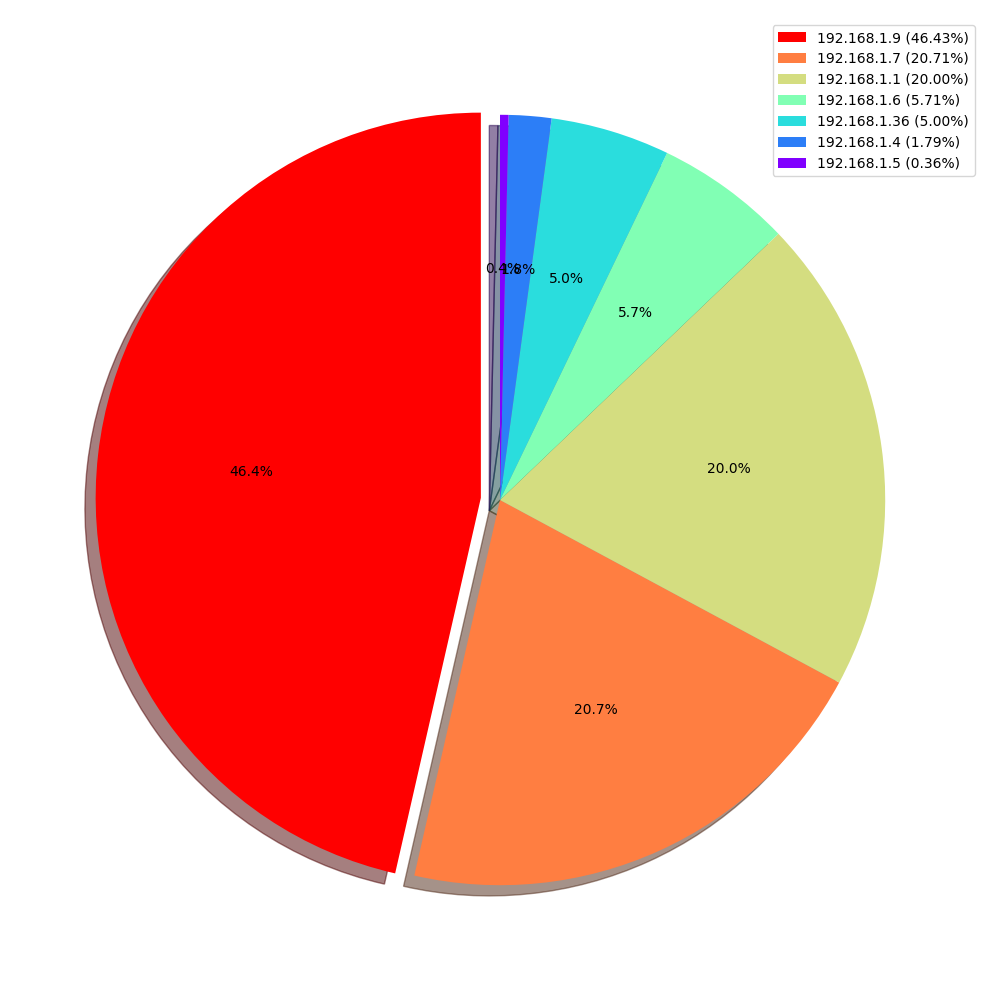
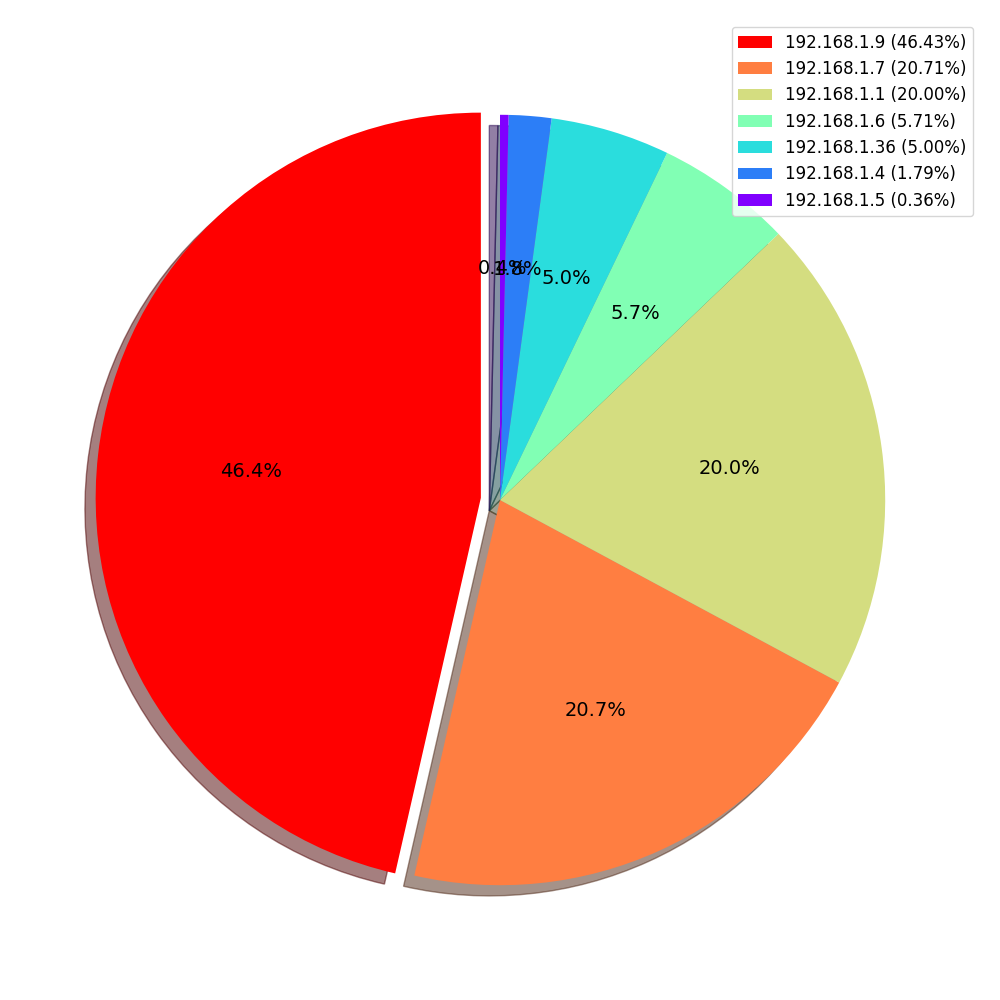
Agrega tabla de entropias y restructura las imagenes en el informe

diff --git a/tp1/informe/resultados.tex b/tp1/informe/resultados.tex
@@ -47,17 +47,31 @@ En cada experimentación se generaron tres tipos de resultados/graficos.
 
  Lo siguiente corresponde a la experimentacion realizada para la fuente Unicast-Multicast en una red WiFi domestica.
  
-\hspace*{-1.5cm}
- \includegraphics[scale=0.6]{../plots/mauro_s1_informacion.png}
- \includegraphics[scale=0.4]{../plots/mauro_s1_probabilidades.png}
+\begin{figure}
+	\begin{minipage}[b]{0.9\linewidth}
+		\subfloat[Probabilidades de los simbolos de la fuente $S_1$ para la red de hogareña]{
+		 \includegraphics[width=0.45\linewidth]{../plots/mauro_s1_probabilidades.png}
+		}
+		\subfloat[Información de los simbolos de la fuente $S_1$ para la red de hogareña]{
+		 \includegraphics[width=0.55\linewidth]{../plots/mauro_s1_informacion.png}
+		}
+	\end{minipage}
+\end{figure}
 
  Como podemos ver los resultados obtenidos muestran una alta concentración de paquetes \textit{multicast} por sobre los \textit{unicast}. En concecuencia la entropía cae abruptamente, ya que como explicamos ésta se maximiza cuando la distribución de las probabilidades de cada símbolo es equitativa, y baja a medida que nos alejamos de ello. Nuestra primera impresion era que los paquetes \textit{unicast} iban a predominar en la captura, sin embargo esto no sucedió. Es posible que esto se deba a que la placa de red del dispositivo en el cual se tomó la muestra no hayan entrado en modo promiscuo, en consecuencia el \textit{sniffer} solo llego a capturar los paquetes cuyo destino era dicho dispositivo (y no todos los \textit{unicast} transmitidos en la red). Por el contrario los \textit{multicast} enviados por cualquier dispositivo de la red se pudieron seguir escuchando sin ningun tipo de censura.
  
 \subsubsection{Fuente ARP}
 
-\hspace*{-1.5cm}
- \includegraphics[scale=0.6]{../plots/mauro_s2_informacion.png}
- \includegraphics[scale=0.4]{../plots/mauro_s2_probabilidades.png}
+\begin{figure}
+	\begin{minipage}[b]{0.9\linewidth}
+		\subfloat[Probabilidades de los simbolos de la fuente $S_2$ para la red de hogareña]{
+		 \includegraphics[width=0.45\linewidth]{../plots/mauro_s2_probabilidades.png}
+		}
+		\subfloat[Información de los simbolos de la fuente $S_2$ para la red de hogareña]{
+		 \includegraphics[width=0.55\linewidth]{../plots/mauro_s2_informacion.png}
+		}
+	\end{minipage}
+\end{figure}
 
 \subsubsection{Topolog\'ia de la Red}
 \begin{center}
@@ -76,15 +90,14 @@ alteradas por posibles `outliers`.
 \subsubsection{Fuente Unicast-Multicast}
 
 \begin{figure}
-\centering
- \includegraphics[scale=0.4]{../plots/trabajo_s1_probabilidades.png}
- \caption{Probabilidades de los simbolos de la fuente $S_1$ para la red de oficinas}
-\end{figure}
-
-\begin{figure}
- \centering
- \includegraphics[scale=0.6]{../plots/trabajo_s1_informacion.png}
- \caption{Información de los simbolos de la fuente $S_1$ para la red de oficinas}
+	\begin{minipage}[b]{0.9\linewidth}
+		\subfloat[Probabilidades de los simbolos de la fuente $S_1$ para la red de oficinas]{
+		 \includegraphics[width=0.45\linewidth]{../plots/trabajo_s1_probabilidades.png}
+		}
+		\subfloat[Información de los simbolos de la fuente $S_1$ para la red de oficinas]{
+		 \includegraphics[width=0.55\linewidth]{../plots/trabajo_s1_informacion.png}
+		}
+	\end{minipage}
 \end{figure}
 
 
@@ -101,18 +114,17 @@ una pequeña proporcion del trafico total de la red.
 \subsubsection{Fuente ARP}
 
 \begin{figure}
-\centering
- \includegraphics[scale=0.4]{../plots/trabajo_s2_probabilidades.png}
- \caption{Probabilidades de los simbolos de la fuente $S_2$ para la red de oficinas}
+	\begin{minipage}[b]{0.9\linewidth}
+		\subfloat[Probabilidades de los simbolos de la fuente $S_2$ para la red de oficinas]{
+		 \includegraphics[width=0.45\linewidth]{../plots/trabajo_s2_probabilidades.png}
+		}
+		\subfloat[Información de los simbolos de la fuente $S_2$ para la red de oficinas]{
+		 \includegraphics[width=0.55\linewidth]{../plots/trabajo_s2_informacion.png}
+		}
+	\end{minipage}
 \end{figure}
 
-\begin{figure}
- \centering
- \includegraphics[scale=0.6]{../plots/trabajo_s2_informacion.png}
- \caption{Información de los simbolos de la fuente $S_2$ para la red de oficinas}
-\end{figure}
-
-En estos graficos se puede ver que efectivamente que el nodo \textbf{192.168.0.1}
+En estos graficos se puede ver que efectivamente el nodo \textbf{192.168.0.1}
 es el destacado. Por previo conocimiento de la red se sabe que este
 es el router lo cual refuerza nuestra hipotesis sobre los nodos destacados.
 Tambien se observa que la entropía alcanzada es de $2.87$ cuando la máxima
@@ -138,15 +150,29 @@ se dijo puede deberse a switchs que no aprendieron bien la tabla de forwardeo.
 
 \subsubsection{Fuente Unicast-Multicast}
 
-\hspace*{-1.5cm}
- \includegraphics[scale=0.6]{../plots/labos_s1_informacion.png}
- \includegraphics[scale=0.4]{../plots/labos_s1_probabilidades.png}
+\begin{figure}
+	\begin{minipage}[b]{0.9\linewidth}
+		\subfloat[Probabilidades de los simbolos de la fuente $S_1$ para la red de laboratorios]{
+		 \includegraphics[width=0.45\linewidth]{../plots/labos_s1_probabilidades.png}
+		}
+		\subfloat[Información de los simbolos de la fuente $S_1$ para la red de laboratorios]{
+		 \includegraphics[width=0.55\linewidth]{../plots/labos_s1_informacion.png}
+		}
+	\end{minipage}
+\end{figure}
 
 \subsubsection{Fuente ARP}
 
-\hspace*{-1.5cm}
- \includegraphics[scale=0.6]{../plots/labos_s2_informacion.png}
- \includegraphics[scale=0.4]{../plots/labos_s2_probabilidades.png}
+\begin{figure}
+	\begin{minipage}[b]{0.9\linewidth}
+		\subfloat[Probabilidades de los simbolos de la fuente $S_2$ para la red de laboratorios]{
+		 \includegraphics[width=0.45\linewidth]{../plots/labos_s2_probabilidades.png}
+		}
+		\subfloat[Información de los simbolos de la fuente $S_2$ para la red de laboratorios]{
+		 \includegraphics[width=0.55\linewidth]{../plots/labos_s2_informacion.png}
+		}
+	\end{minipage}
+\end{figure}
 
 \subsubsection{Topolog\'ia de la Red}
 \begin{center}

diff --git a/tp1/plots/probabilidades.py b/tp1/plots/probabilidades.py
@@ -4,6 +4,7 @@ import sys
 import json
 import matplotlib.pyplot as plt
 import matplotlib.cm as cm
+from matplotlib import font_manager as fm
 import numpy as np
 import operator
 import random
@@ -23,8 +24,12 @@ def plot(probabilidades):
     labels = ["{} ({:3.2f}%)".format(s, p * 100.0) for s, p in probabilidades]
     sizes = [ p * 100 for _, p in probabilidades ]
     fig, ax = plt.subplots(figsize=(10, 10))
-    patches = ax.pie(sizes, autopct='%1.1f%%', startangle=90, shadow=True, explode=explode, colors=colors)
-    ax.legend(labels=labels, loc="best")
+    patches,texts,autotexts = ax.pie(sizes, autopct='%1.1f%%', startangle=90, shadow=True, explode=explode, colors=colors)
+    proptease = fm.FontProperties()
+    proptease.set_size(14)
+    plt.setp(autotexts, fontproperties=proptease)
+    plt.setp(texts, fontproperties=proptease)
+    ax.legend(labels=labels, loc="best", fontsize=12)
     # plt.axis('equal')
     fig.tight_layout()
     fig.savefig(sys.stdout.buffer)

diff --git a/tp1/informe/informe.tex b/tp1/informe/informe.tex
@@ -16,8 +16,8 @@
 \usepackage{multirow}
 
 \usepackage{caption}
-\usepackage{subcaption}
 
+\usepackage{subfig}
 \usepackage{algorithm}
 \usepackage[noend]{algpseudocode}
 
